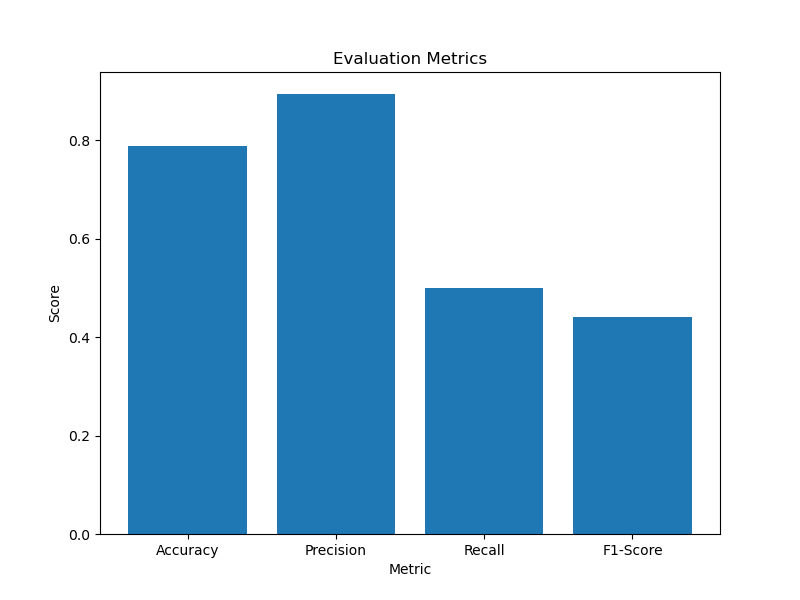
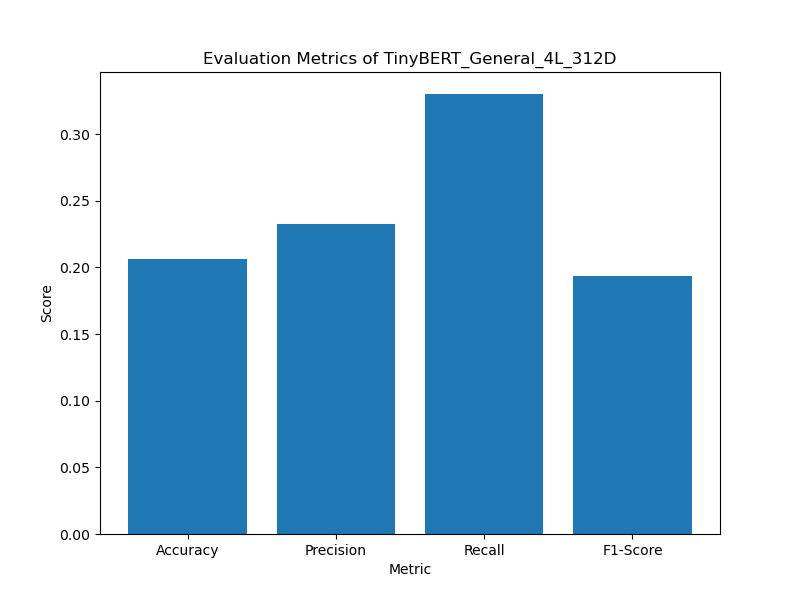
removed redundant results

diff --git a/results/sentiment_classification/TinyBERT_General_4L_312Dsenitment_classification_report.tex b/results/sentiment_classification/TinyBERT_General_4L_312Dsenitment_classification_report.tex
@@ -1,7 +1,7 @@
 \begin{tabular}{rrrr}
 \toprule
- Accuracy &  Precision &  Recall &  F1-Score \\
+ Accuracy &  Precision &   Recall &  F1-Score \\
 \midrule
- 0.787611 &   0.893805 &     0.5 &  0.440594 \\
+ 0.206522 &   0.232572 & 0.330113 &  0.193669 \\
 \bottomrule
 \end{tabular}

diff --git a/results/aspect_classification/TinyBERT_General_4L_312D_classification_report.tex b/results/aspect_classification/TinyBERT_General_4L_312D_classification_report.tex
@@ -2,6 +2,6 @@
 \toprule
  Accuracy &  Precision &   Recall &  F1-Score \\
 \midrule
-     0.25 &   0.077239 & 0.145721 &  0.091629 \\
+ 0.231121 &   0.183403 & 0.202919 &  0.166722 \\
 \bottomrule
 \end{tabular}
